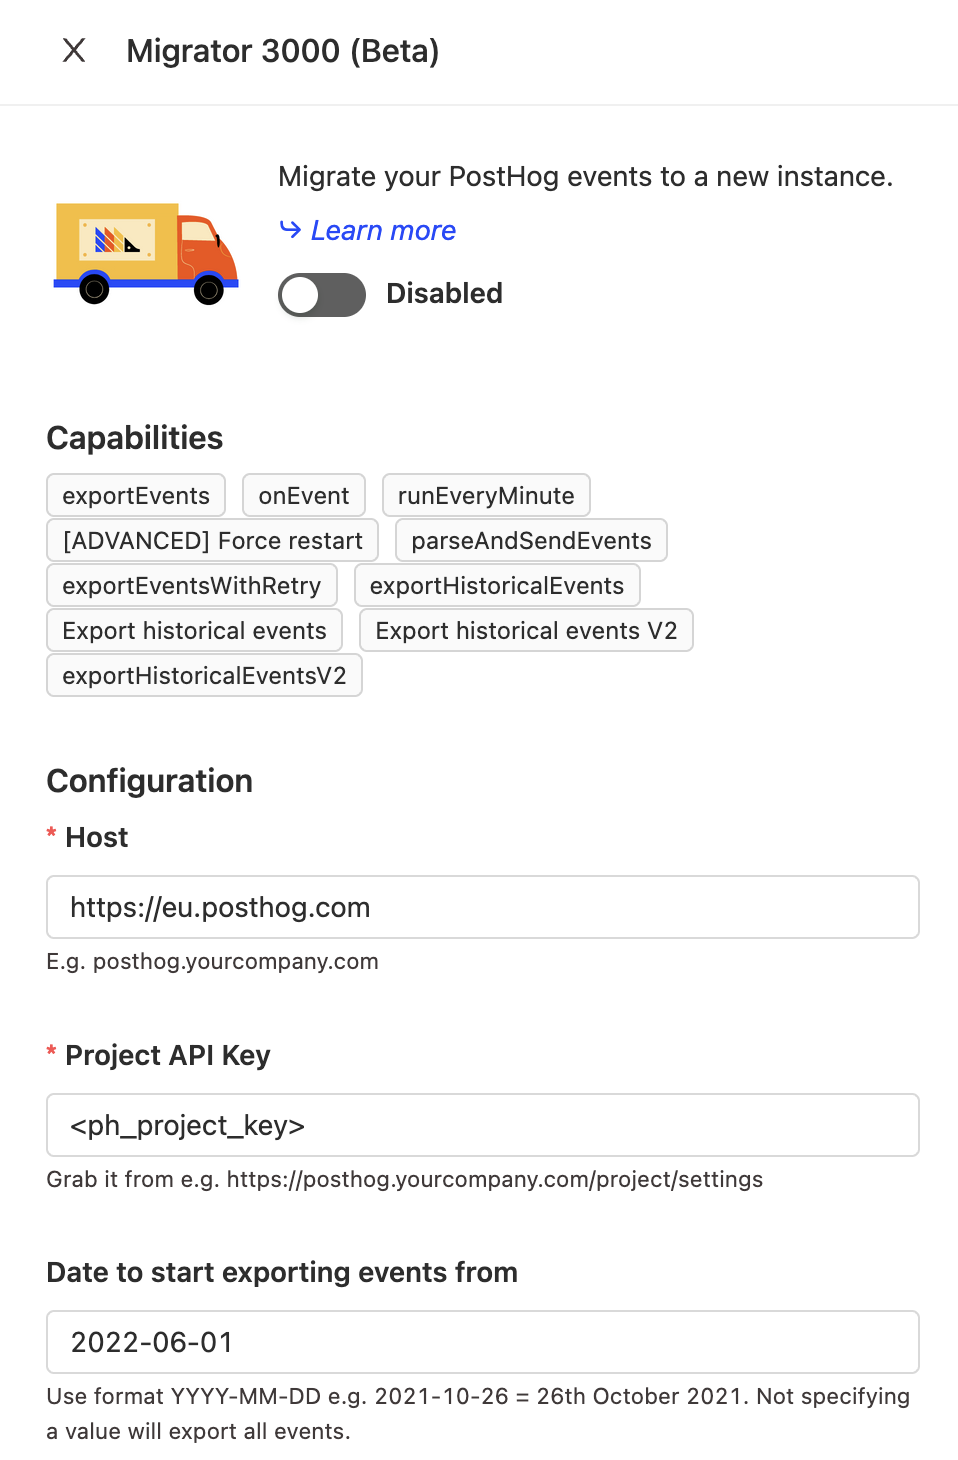
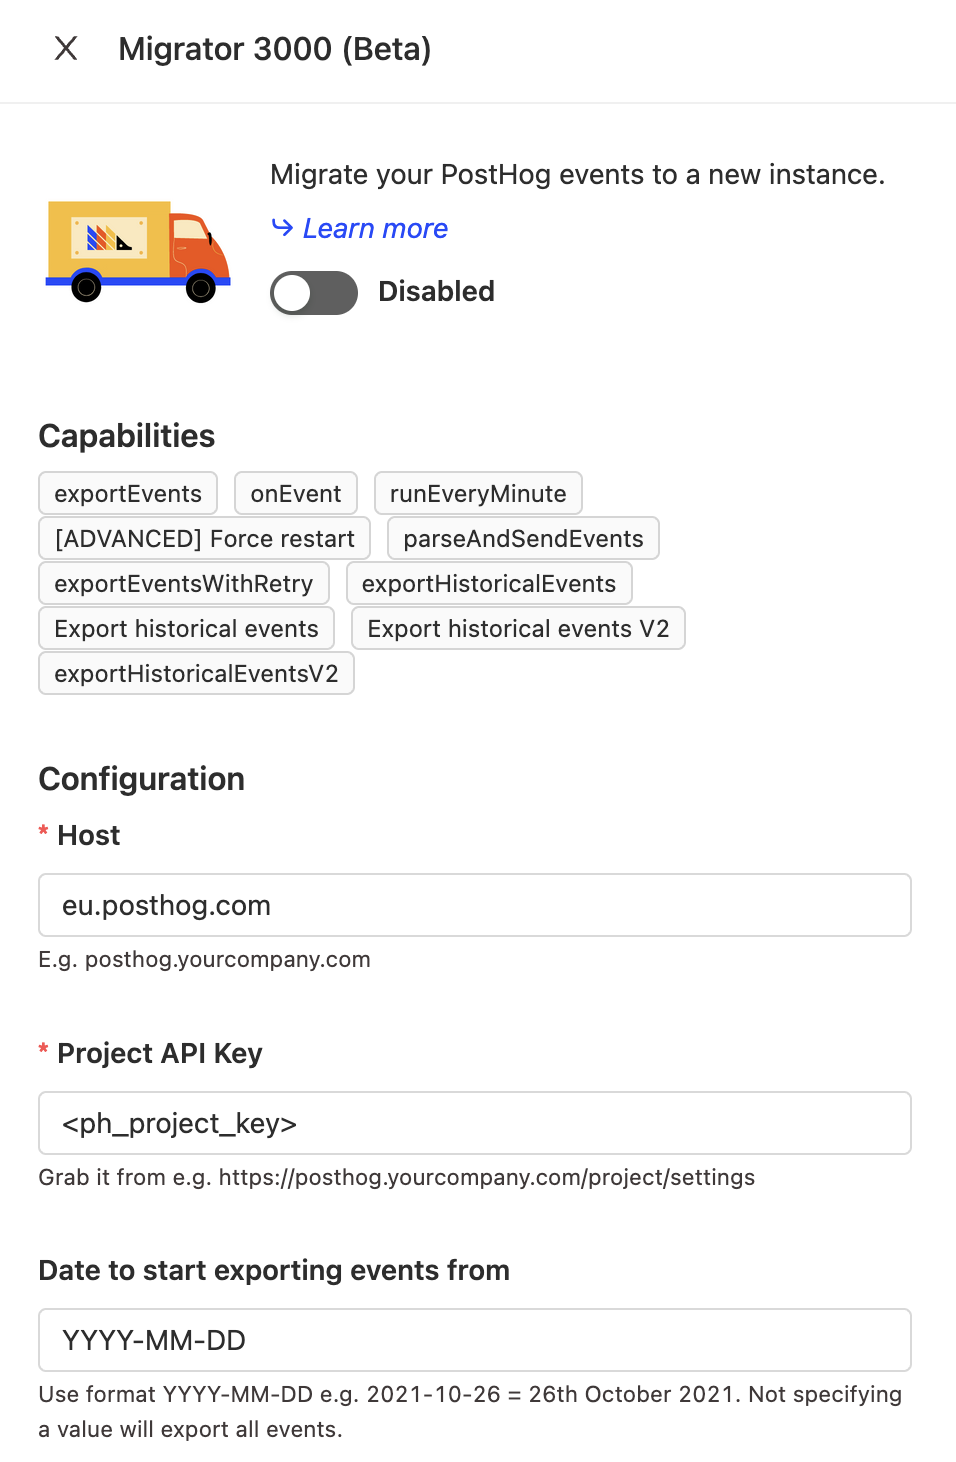
update config, fix urls

diff --git a/contents/tutorials/migrate-eu-cloud.md b/contents/tutorials/migrate-eu-cloud.md
@@ -24,11 +24,11 @@ To start with EU Cloud, you can go to the [cloud signup page](https://app.postho
 
 ## Using Migrator 3000
 
-Once you’ve created your EU Cloud account, you can immediately start migrating data there. To do this, in your original PostHog instance (either Cloud or self-hosted), go to Apps and search for the [Migrator 3000 app](https://posthog.com/docs/apps/migrator-3000). This app moves data from one PostHog instance to another. Once you've found and added it, click the blue “Configure” button to start.
+Once you’ve created your EU Cloud account, you can immediately start migrating data there. To do this, in your original PostHog instance (either Cloud or self-hosted), go to Apps and search for the [Migrator 3000 app](/docs/apps/migrator-3000). This app moves data from one PostHog instance to another. Once you've found and added it, click the blue “Configure” button to start.
 
 ![Migrator 3000 app](../images/tutorials/migrate-eu-cloud/migrator-app.png)
 
-In the configuration menu, enter the project key and host (`https://eu.posthog.com`) from your EU Cloud instance settings. If you don’t want to import all the events, you can also set a date limit.
+In the configuration menu, enter the project key and host (`eu.posthog.com`) from your EU Cloud instance settings. If you don’t want to import all the events, you can also set a date limit.
 
 ![Migrator 3000 config](../images/tutorials/migrate-eu-cloud/migrator-config.png)
 
@@ -47,4 +47,4 @@ Once all these are completed, you’ll be fully migrated to EU Cloud.
 
 ## Further reading
 
-For more information about migration, check out our [docs](https://posthog.com/docs/migrate/migrate-between-cloud-and-self-hosted).
+For more information about migration, check out our [docs](/docs/migrate/migrate-between-cloud-and-self-hosted).
